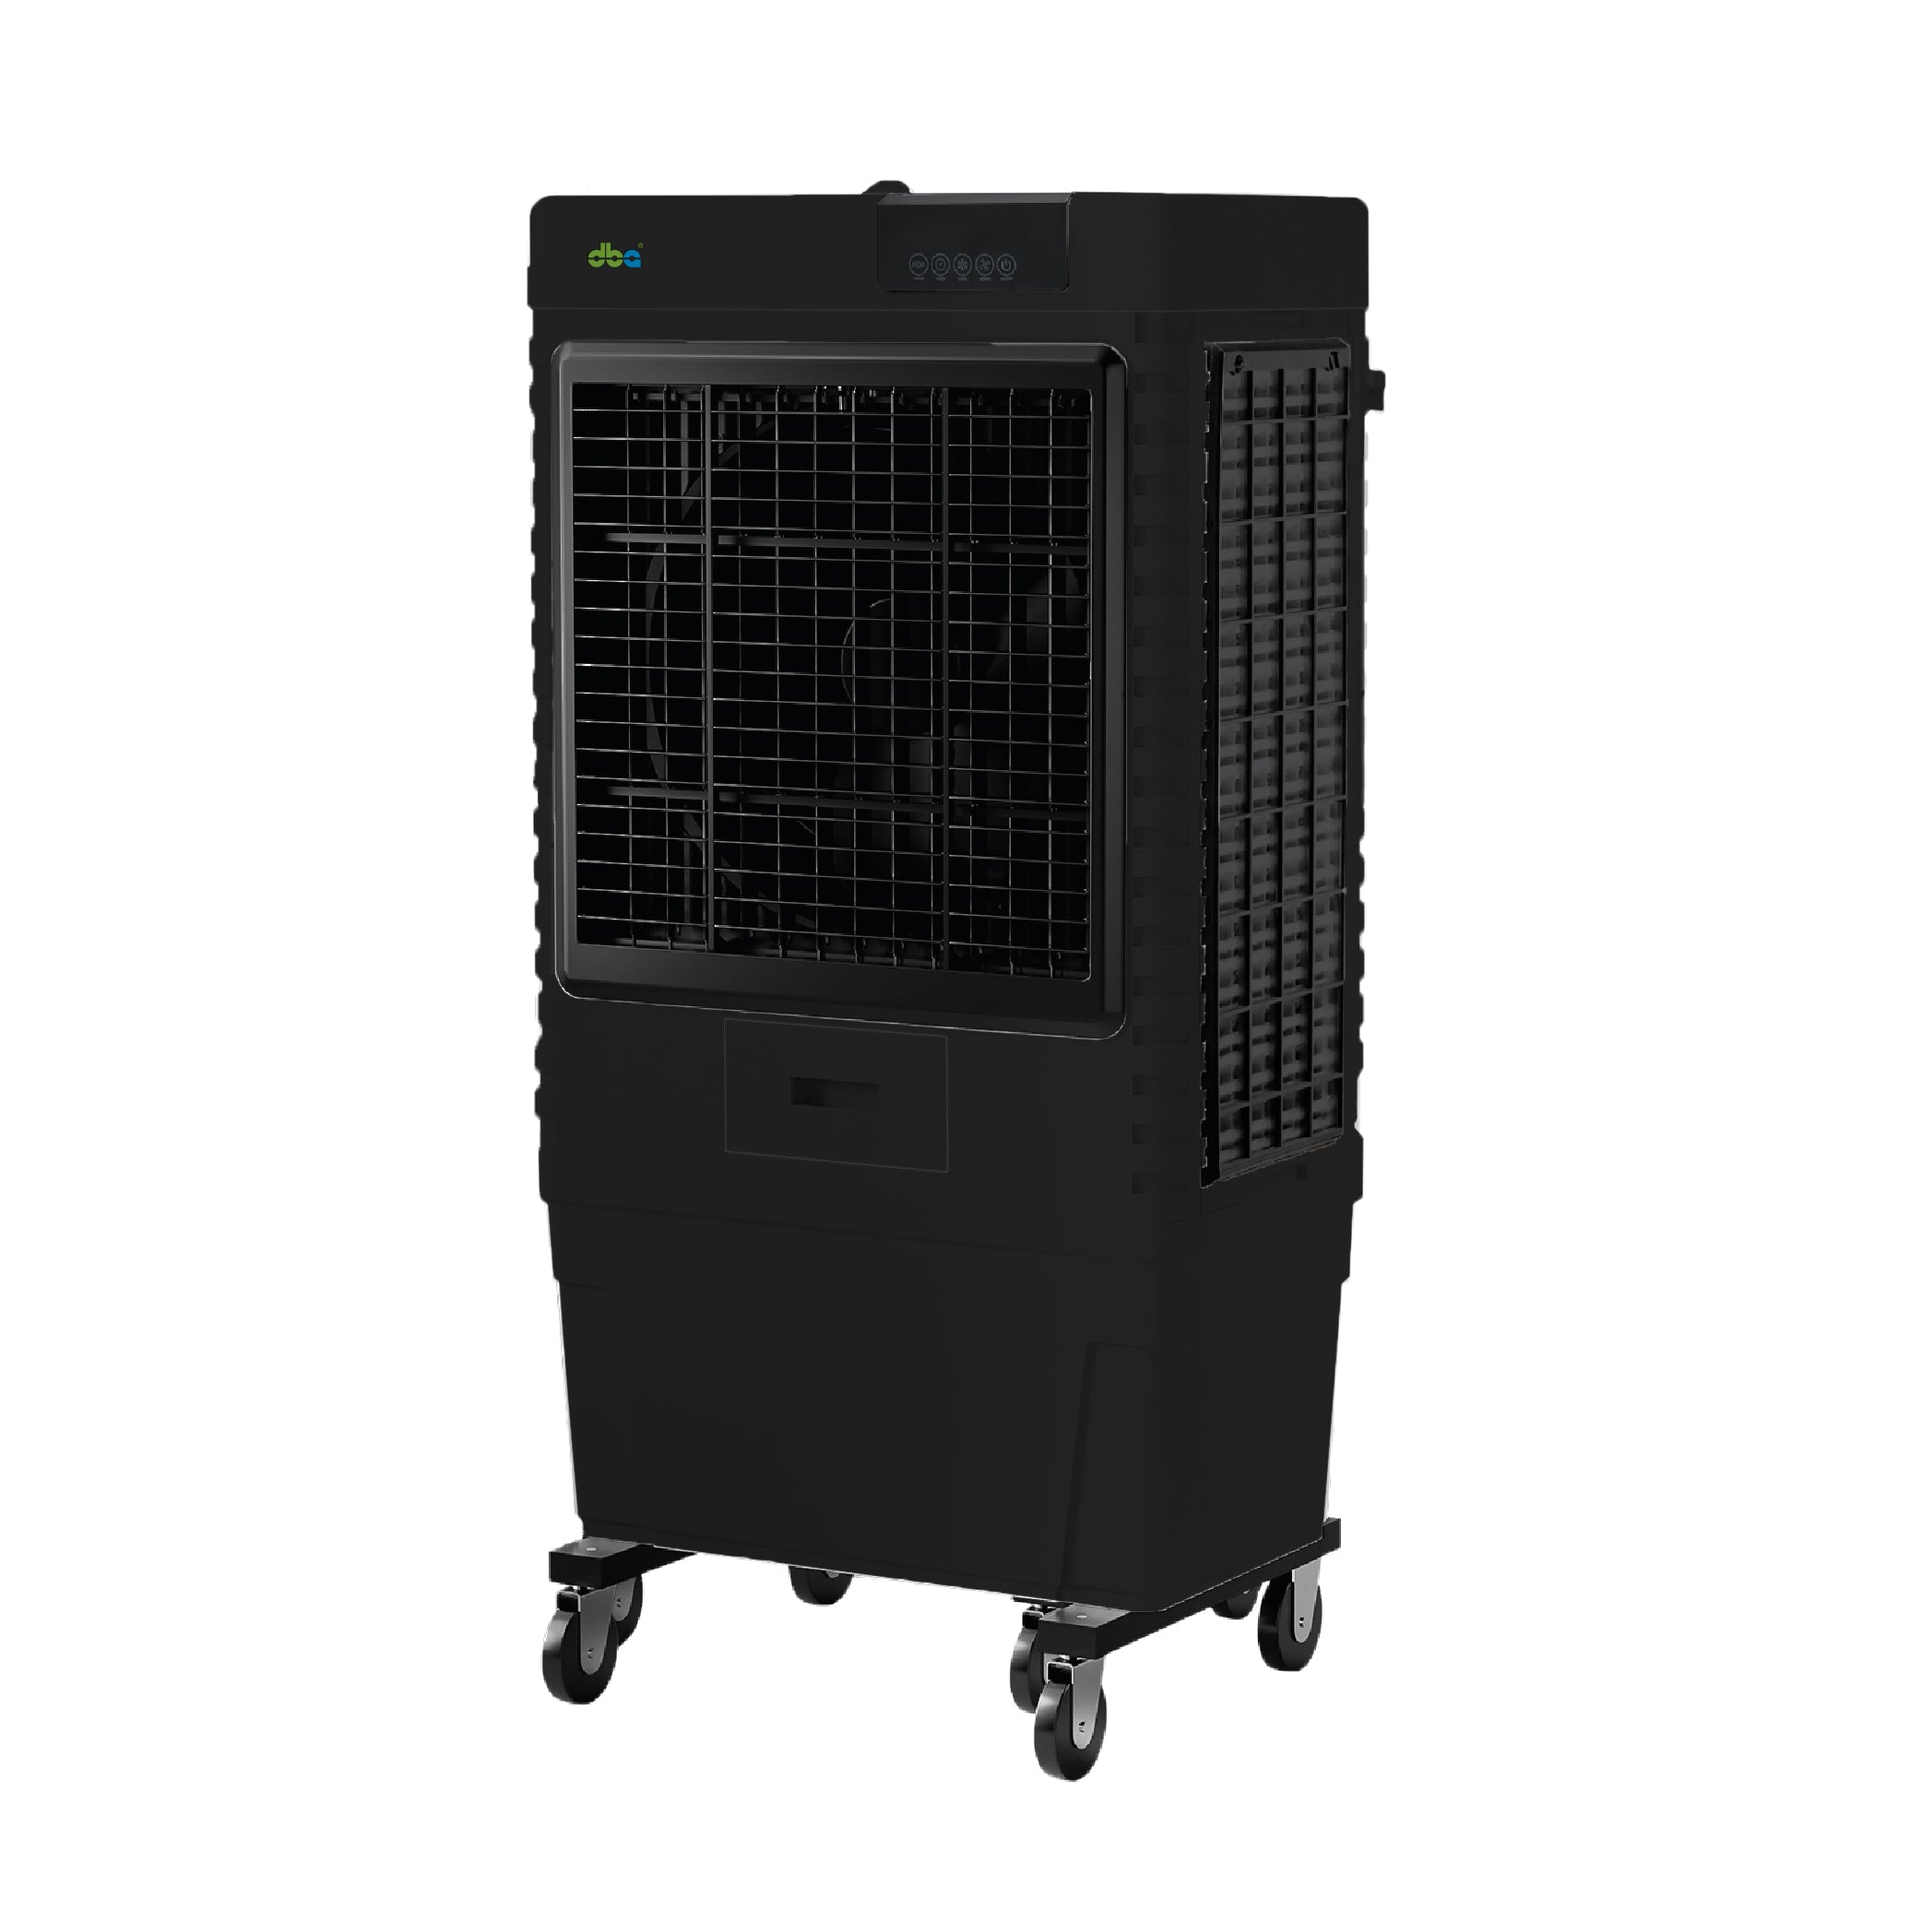
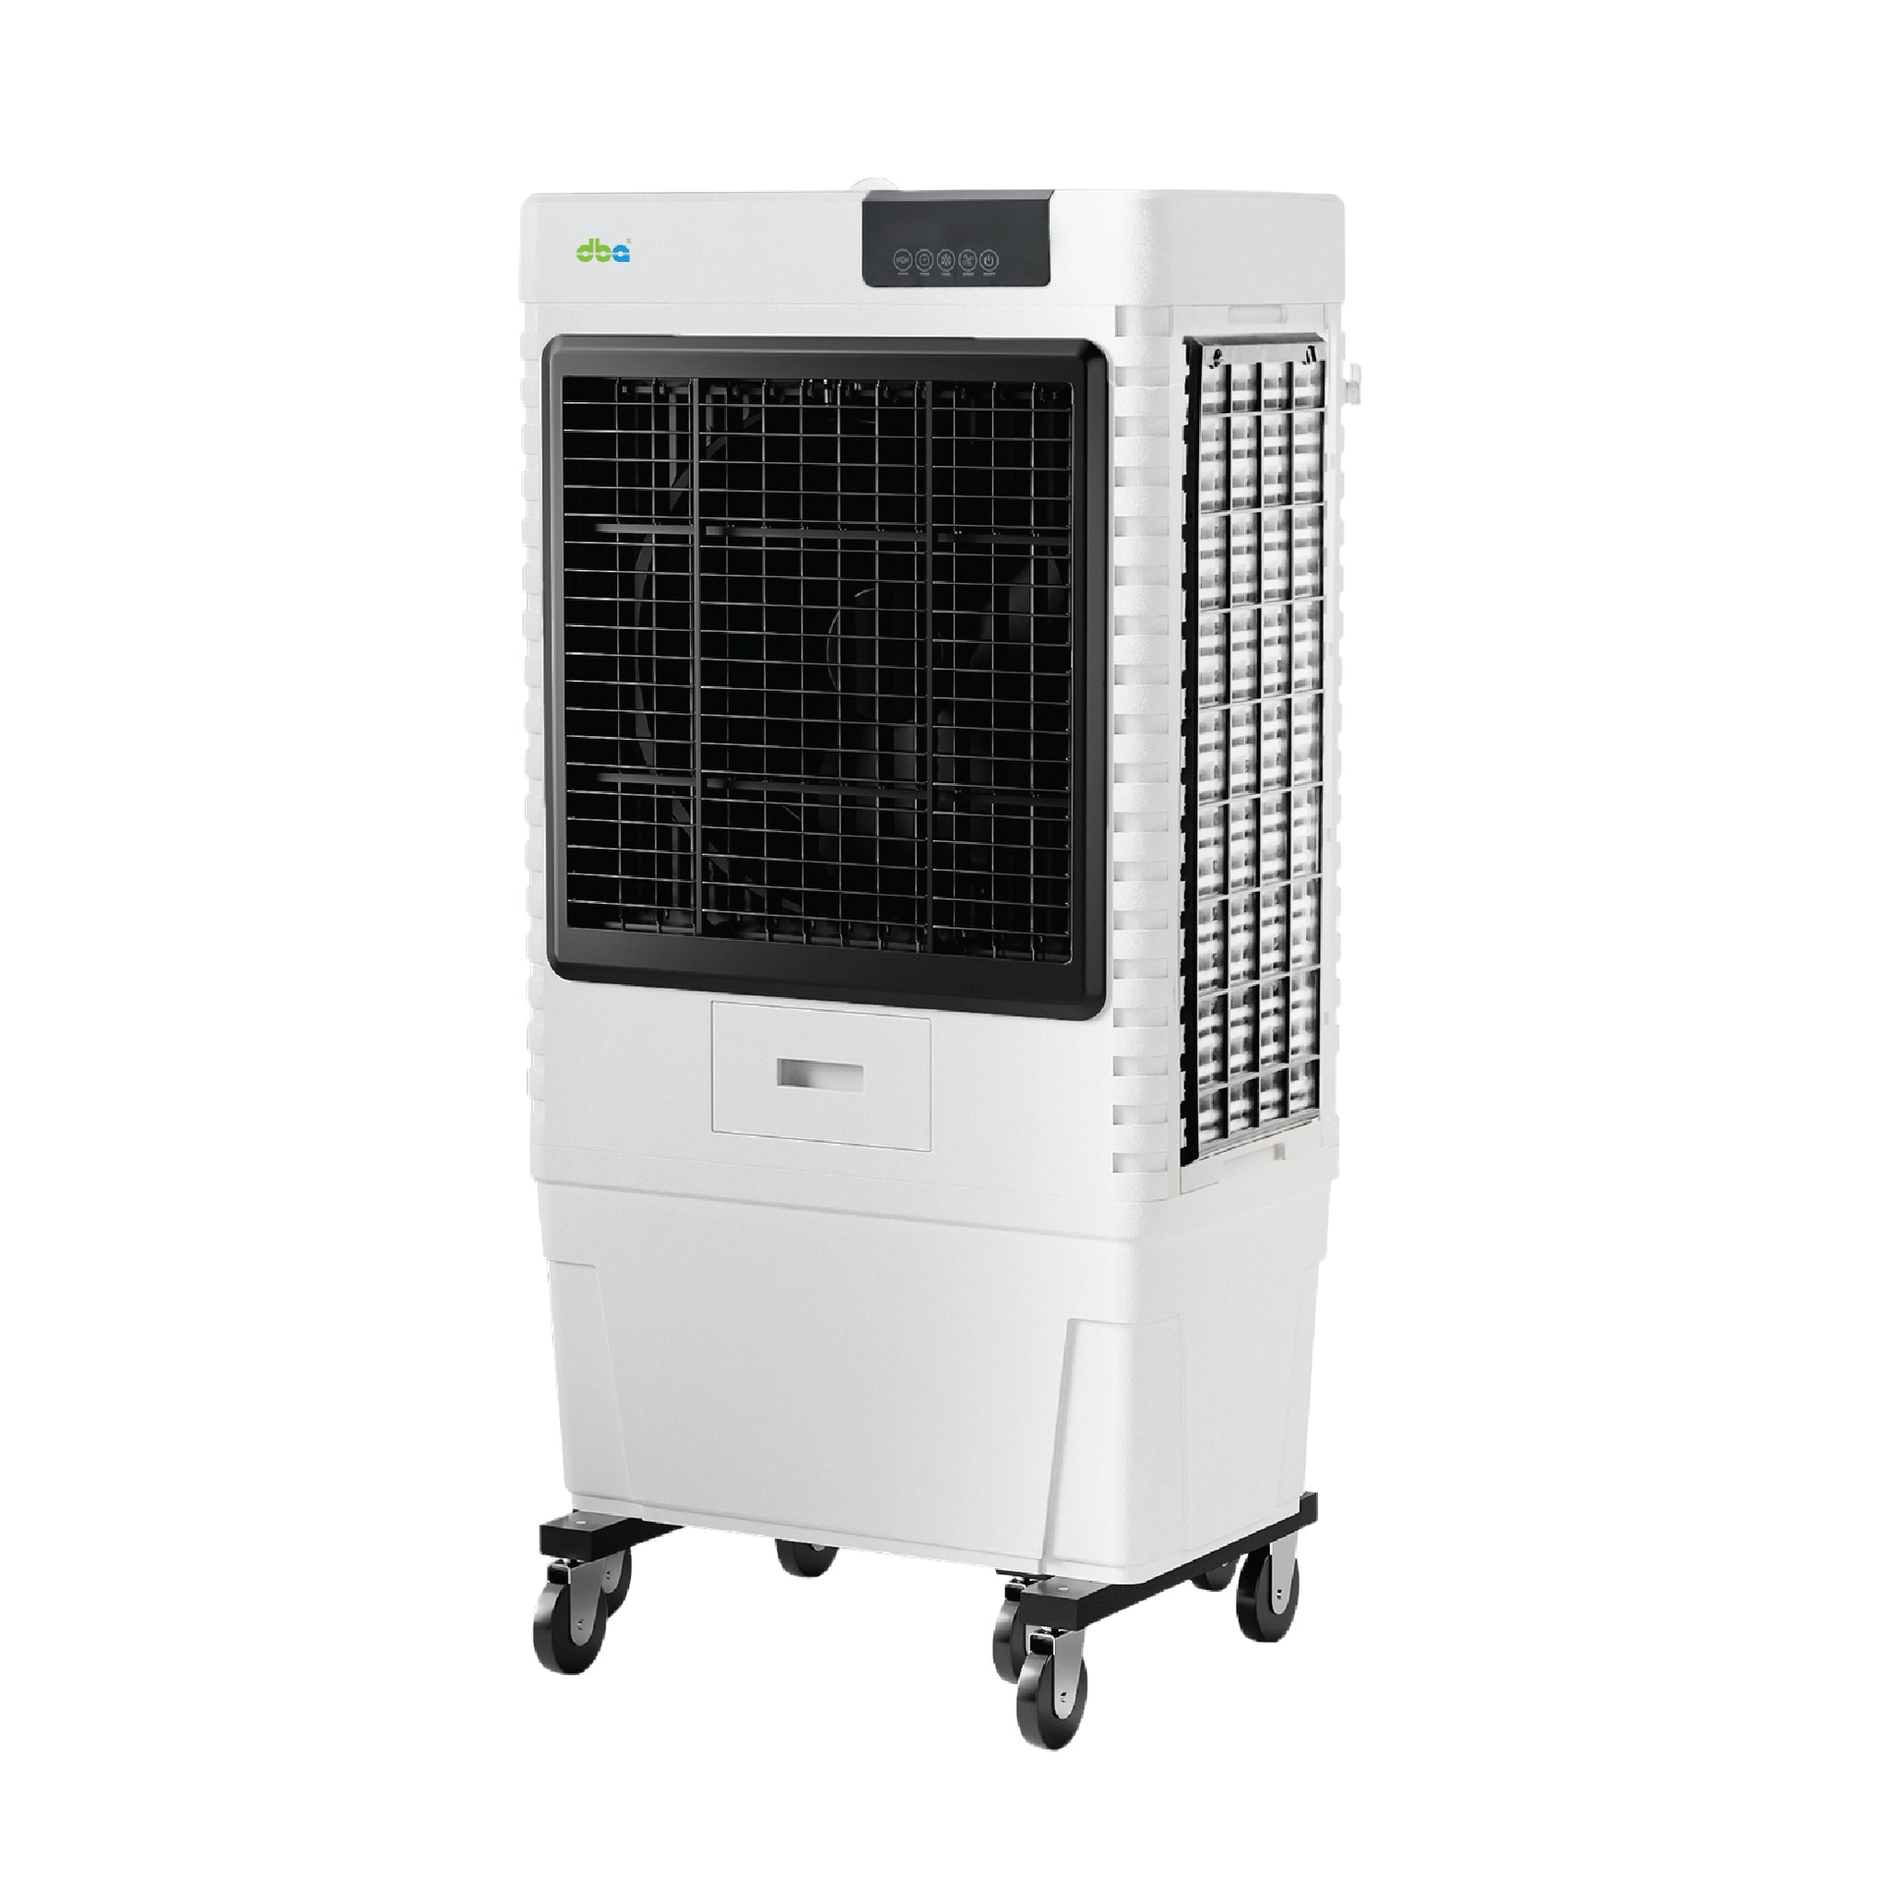
Use white DEBI001C image; add F250K (2500 sqft) and F380K (3000 sqft) coverage
DEBI001C card was showing the black unit; that image belongs to DEBI001C (Black).
Pulled the white DEBI001C product photo from dba.hk and replaced -1/-2.

Industrial fans previously shown as "—" coverage; updated to client-supplied
practical coverage figures.

Changed region(s): [[0.25, 0.0938, 0.7188, 0.9062]]

diff --git a/products/dba-f250k.html b/products/dba-f250k.html
@@ -91,7 +91,7 @@
 
         <div class="spec-strip">
           <div class="spec-cell"><div class="k" data-i18n="pd.spec.airflow">風量</div><div class="v">25,000 m³/h</div></div>
-          <div class="spec-cell"><div class="k" data-i18n="pd.spec.coverage">覆蓋面積</div><div class="v" data-i18n="pd.area.dba-f250k">—</div></div>
+          <div class="spec-cell"><div class="k" data-i18n="pd.spec.coverage">覆蓋面積</div><div class="v" data-i18n="pd.area.dba-f250k">2,500 平方呎</div></div>
           <div class="spec-cell"><div class="k" data-i18n="pd.spec.class">類別</div><div class="v" data-i18n="tab.Industrial Fan">工業風扇</div></div>
           <div class="spec-cell"><div class="k" data-i18n="pd.spec.sku">型號</div><div class="v">DBA-F250K</div></div>
         </div>
@@ -196,7 +196,7 @@
   window.PD_I18N = {
     en: {
       'pd.blurb.dba-f250k': "Industrial portable fan — 25,000 m³/h. Pure airflow, no evaporation.",
-      'pd.area.dba-f250k': "—",
+      'pd.area.dba-f250k': "2,500 sq ft",
             'pd.feat.dba-f250k.0': "No water needed",
       'pd.feat.dba-f250k.1': "25,000 CMH",
       'pd.feat.dba-f250k.2': "Sealed industrial motor",
@@ -226,7 +226,7 @@
     },
     zh: {
       'pd.blurb.dba-f250k': "工業流動風扇 — 25,000 m³/h，純風量、不需用水。",
-      'pd.area.dba-f250k': "—",
+      'pd.area.dba-f250k': "2,500 平方呎",
             'pd.feat.dba-f250k.0': "無需用水",
       'pd.feat.dba-f250k.1': "25,000 CMH",
       'pd.feat.dba-f250k.2': "密封工業馬達",

diff --git a/products/dba-f380k.html b/products/dba-f380k.html
@@ -94,7 +94,7 @@
 
         <div class="spec-strip">
           <div class="spec-cell"><div class="k" data-i18n="pd.spec.airflow">風量</div><div class="v">38,000 m³/h</div></div>
-          <div class="spec-cell"><div class="k" data-i18n="pd.spec.coverage">覆蓋面積</div><div class="v" data-i18n="pd.area.dba-f380k">—</div></div>
+          <div class="spec-cell"><div class="k" data-i18n="pd.spec.coverage">覆蓋面積</div><div class="v" data-i18n="pd.area.dba-f380k">3,000 平方呎</div></div>
           <div class="spec-cell"><div class="k" data-i18n="pd.spec.class">類別</div><div class="v" data-i18n="tab.Industrial Fan">工業風扇</div></div>
           <div class="spec-cell"><div class="k" data-i18n="pd.spec.sku">型號</div><div class="v">DBA-F380K</div></div>
         </div>
@@ -199,7 +199,7 @@
   window.PD_I18N = {
     en: {
       'pd.blurb.dba-f380k': "Flagship industrial fan — 38,000 m³/h. Warehouses and dockyards.",
-      'pd.area.dba-f380k': "—",
+      'pd.area.dba-f380k': "3,000 sq ft",
             'pd.feat.dba-f380k.0': "No water needed",
       'pd.feat.dba-f380k.1': "38,000 CMH",
       'pd.feat.dba-f380k.2': "Sealed industrial motor",
@@ -229,7 +229,7 @@
     },
     zh: {
       'pd.blurb.dba-f380k': "旗艦工業風扇 — 38,000 m³/h，適合倉庫及碼頭。",
-      'pd.area.dba-f380k': "—",
+      'pd.area.dba-f380k': "3,000 平方呎",
             'pd.feat.dba-f380k.0': "無需用水",
       'pd.feat.dba-f380k.1': "38,000 CMH",
       'pd.feat.dba-f380k.2': "密封工業馬達",

diff --git a/script.js b/script.js
@@ -28,12 +28,12 @@ const PRODUCTS = [
   ["DEBI001C-H","debi001c-h",18000,"1,800 sq ft","Flagship","debi001c-h-1.jpg",
    "Flagship industrial — H-series upgraded. 18,000 m³/h.",
    "1,800 平方呎","旗艦","旗艦工業款 — H 系列升級版，18,000 m³/h。"],
-  ["DBA-F250K","dba-f250k",25000,"—","Industrial Fan","dba-f250k-1.jpg",
+  ["DBA-F250K","dba-f250k",25000,"2,500 sq ft","Industrial Fan","dba-f250k-1.jpg",
    "Industrial portable fan — pure airflow, no evaporation.",
-   "—","工業風扇","工業流動風扇 — 純風量，不需用水。"],
-  ["DBA-F380K","dba-f380k",38000,"—","Industrial Fan","dba-f380k-1.jpg",
+   "2,500 平方呎","工業風扇","工業流動風扇 — 純風量，不需用水。"],
+  ["DBA-F380K","dba-f380k",38000,"3,000 sq ft","Industrial Fan","dba-f380k-1.jpg",
    "Flagship industrial fan — 38,000 m³/h. Warehouses and dockyards.",
-   "—","工業風扇","旗艦工業風扇 — 38,000 m³/h，適合倉庫及碼頭。"],
+   "3,000 平方呎","工業風扇","旗艦工業風扇 — 38,000 m³/h，適合倉庫及碼頭。"],
 ];
 
 /* ========= I18N DICTIONARY ========= */
